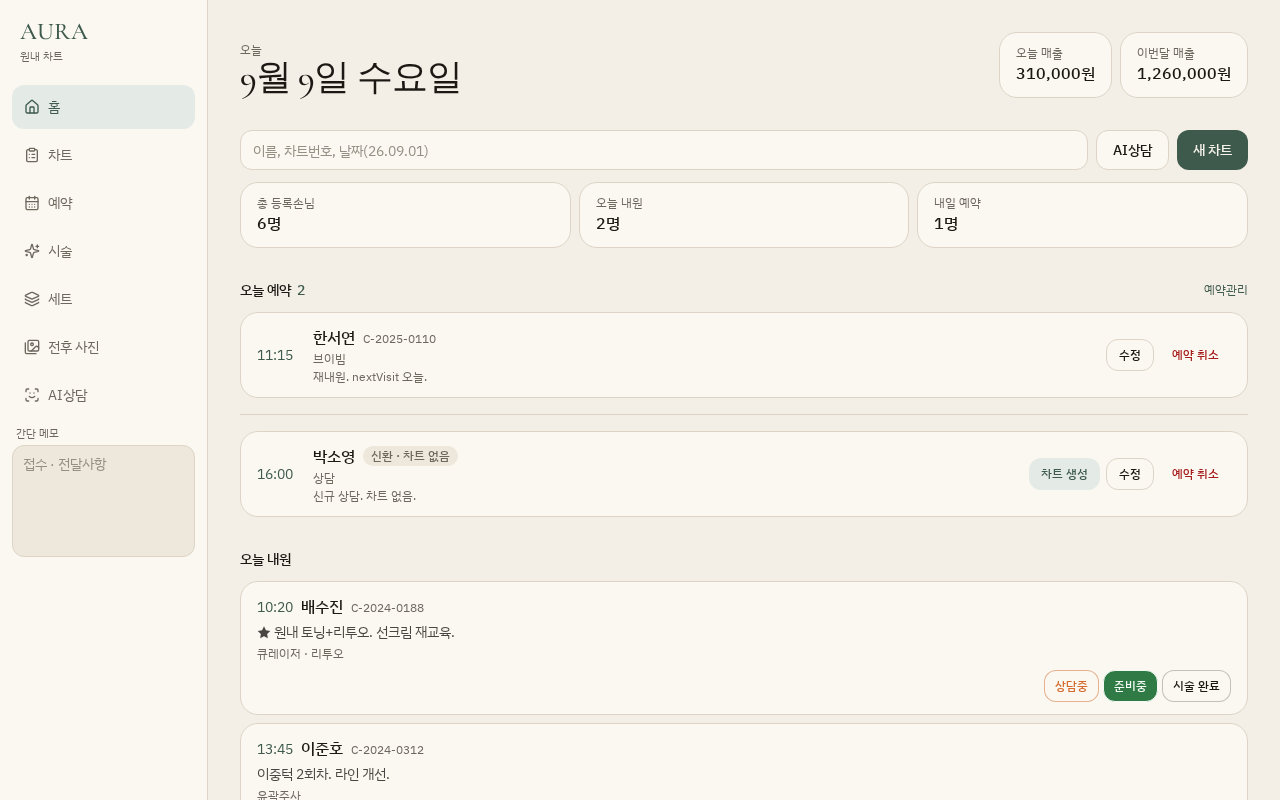
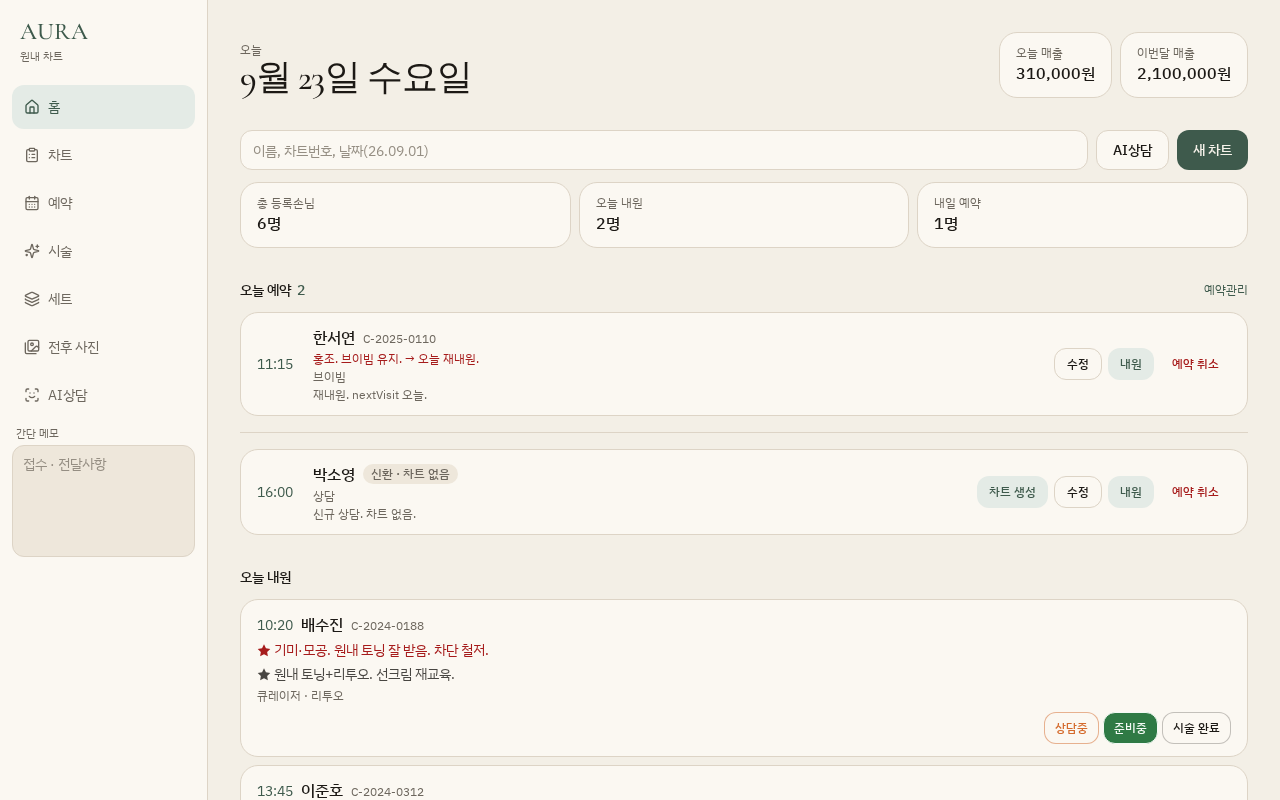
Export from Grok

diff --git a/src/components/reservation-form-dialog.tsx b/src/components/reservation-form-dialog.tsx
@@ -17,23 +17,37 @@ type Props = {
   initial?: Partial<Reservation>;
 };
 
+function reserveTime(t?: string) {
+  const snapped = snapVisitTime(t);
+  const h = Number(snapped.slice(0, 2));
+  const hour = h < 8 ? 8 : h > 20 ? 20 : h;
+  return `${String(hour).padStart(2, "0")}:${snapped.slice(3, 5)}`;
+}
+
 export function ReservationFormDialog({ open, onOpenChange, initial }: Props) {
   const patients = useClinicStore((s) => s.patients);
   const upsertReservation = useClinicStore((s) => s.upsertReservation);
   const [date, setDate] = useState(todayISO());
-  const [time, setTime] = useState(nowTime());
+  const [time, setTime] = useState(() => reserveTime(nowTime()));
   const [name, setName] = useState("");
   const [phone, setPhone] = useState("");
+  const [chartNo, setChartNo] = useState("");
+  const [gender, setGender] = useState<"F" | "M" | "">("");
   const [patientId, setPatientId] = useState<string | undefined>();
   const [treatments, setTreatments] = useState<string[]>([]);
   const [note, setNote] = useState("");
 
   useEffect(() => {
     if (!open) return;
+    const linked = initial?.patientId
+      ? useClinicStore.getState().patients.find((p) => p.id === initial.patientId)
+      : undefined;
     setDate(initial?.date ?? todayISO());
-    setTime(initial?.time ? snapVisitTime(initial.time) : nowTime());
+    setTime(reserveTime(initial?.time ?? nowTime()));
     setName(initial?.name ?? "");
-    setPhone(initial?.phone ?? "");
+    setPhone(initial?.phone ?? linked?.phone ?? "");
+    setChartNo(initial?.chartNo ?? linked?.chartNo ?? "");
+    setGender(initial?.gender ?? linked?.gender ?? "");
     setPatientId(initial?.patientId);
     setTreatments(initial?.treatments ?? []);
     setNote(initial?.note ?? "");
@@ -42,16 +56,18 @@ export function ReservationFormDialog({ open, onOpenChange, initial }: Props) {
   const matches = useMemo(() => {
     const n = name.trim().toLowerCase();
     const ph = phone.replace(/\D/g, "");
-    if (!n && ph.length < 3) return [];
+    const no = chartNo.trim().toLowerCase();
+    if (!n && ph.length < 3 && !no) return [];
     return patients
       .filter((p) => {
         if (patientId && p.id === patientId) return false;
         if (n && p.name.toLowerCase().includes(n)) return true;
         if (ph.length >= 3 && (p.phone ?? "").replace(/\D/g, "").includes(ph)) return true;
+        if (no && p.chartNo.toLowerCase().includes(no)) return true;
         return false;
       })
       .slice(0, 6);
-  }, [name, phone, patients, patientId]);
+  }, [name, phone, chartNo, patients, patientId]);
 
   const selected = patients.find((p) => p.id === patientId);
 
@@ -61,10 +77,12 @@ export function ReservationFormDialog({ open, onOpenChange, initial }: Props) {
     upsertReservation({
       id: initial?.id ?? uid("r"),
       date,
-      time,
+      time: reserveTime(time),
       name: trimmed,
       phone: phone.trim() || undefined,
       patientId,
+      chartNo: chartNo.trim() || undefined,
+      gender: gender || undefined,
       treatments: treatments.length ? treatments : undefined,
       note: note.trim(),
       cancelled: initial?.cancelled,
@@ -89,7 +107,7 @@ export function ReservationFormDialog({ open, onOpenChange, initial }: Props) {
             </div>
             <div className="grid gap-1.5">
               <Label>시간</Label>
-              <TimeSelect value={time} onChange={setTime} />
+              <TimeSelect value={time} onChange={(next) => setTime(reserveTime(next))} minHour={8} maxHour={20} />
             </div>
           </div>
           <div className="grid gap-1.5">
@@ -116,6 +134,8 @@ export function ReservationFormDialog({ open, onOpenChange, initial }: Props) {
                       onClick={() => {
                         setName(p.name);
                         setPhone(p.phone ?? phone);
+                        setChartNo(p.chartNo);
+                        setGender(p.gender ?? gender);
                         setPatientId(p.id);
                       }}
                     >
@@ -126,6 +146,40 @@ export function ReservationFormDialog({ open, onOpenChange, initial }: Props) {
                 ))}
               </ul>
             ) : null}
+          </div>
+          <div className="grid grid-cols-2 gap-3">
+            <div className="grid gap-1.5">
+              <Label>차트번호</Label>
+              <Input
+                value={chartNo}
+                onChange={(e) => {
+                  const next = e.target.value;
+                  setChartNo(next);
+                  const key = next.trim().toLowerCase();
+                  const exact = key ? patients.filter((p) => p.chartNo.trim().toLowerCase() === key) : [];
+                  if (exact.length === 1) {
+                    setName(exact[0].name);
+                    setPhone(exact[0].phone ?? phone);
+                    setGender(exact[0].gender ?? gender);
+                    setPatientId(exact[0].id);
+                  } else {
+                    setPatientId(undefined);
+                  }
+                }}
+                placeholder="직접 입력"
+              />
+            </div>
+            <div className="grid gap-1.5">
+              <Label>성별</Label>
+              <div className="flex gap-2">
+                <Button type="button" size="sm" variant={gender === "F" ? "default" : "outline"} onClick={() => setGender(gender === "F" ? "" : "F")}>
+                  여
+                </Button>
+                <Button type="button" size="sm" variant={gender === "M" ? "default" : "outline"} onClick={() => setGender(gender === "M" ? "" : "M")}>
+                  남
+                </Button>
+              </div>
+            </div>
           </div>
           <div className="grid gap-1.5">
             <Label>전화</Label>

diff --git a/src/lib/store.ts b/src/lib/store.ts
@@ -56,6 +56,7 @@ export type ClinicState = ClinicData & {
   upsertReservation: (input: ReservationInput) => Reservation;
   removeReservation: (id: string) => void;
   toggleBookingCancel: (booking: DayBooking) => void;
+  arriveBooking: (booking: DayBooking) => void;
   addConsult: (input: ConsultInput) => Consult;
   removeConsult: (id: string) => void;
   toggleHouse: (treatmentId: string) => void;
@@ -198,6 +199,8 @@ export const useClinicStore = create<ClinicState>()(
           name: input.name,
           phone: input.phone ?? existing?.phone,
           patientId: input.patientId ?? existing?.patientId,
+          chartNo: input.chartNo !== undefined ? input.chartNo.trim() || undefined : existing?.chartNo,
+          gender: input.gender !== undefined ? input.gender : existing?.gender,
           treatments: input.treatments ?? existing?.treatments,
           note: input.note !== undefined ? input.note.trim() || undefined : existing?.note,
           cancelled: input.cancelled ?? existing?.cancelled,
@@ -261,6 +264,60 @@ export const useClinicStore = create<ClinicState>()(
           source: "cancel",
         };
         set({ visits: [...get().visits, visit] });
+      },
+
+      arriveBooking: (booking) => {
+        if (booking.cancelled) return;
+        let patient = booking.patientId
+          ? get().patients.find((p) => p.id === booking.patientId)
+          : undefined;
+        if (!patient && booking.chartNo?.trim()) {
+          const key = booking.chartNo.trim();
+          patient = get().patients.find((p) => p.chartNo.trim() === key);
+        }
+        if (!patient) {
+          patient = get().upsertPatient({
+            name: booking.name,
+            phone: booking.phone,
+            chartNo: booking.chartNo ?? "",
+            gender: booking.gender,
+          });
+        } else if ((!patient.gender && booking.gender) || (!patient.chartNo.trim() && booking.chartNo)) {
+          patient = get().upsertPatient({
+            id: patient.id,
+            name: patient.name,
+            gender: patient.gender ?? booking.gender,
+            chartNo: patient.chartNo.trim() ? patient.chartNo : (booking.chartNo ?? ""),
+          });
+        }
+        const arrived = get().visits.some(
+          (v) => v.patientId === patient.id && v.date === booking.date && v.source !== "cancel",
+        );
+        if (!arrived) {
+          get().upsertVisit({
+            patientId: patient.id,
+            date: booking.date,
+            time: booking.time,
+            treatments: booking.treatments ?? [],
+            memo: booking.note && booking.note !== "다음 내원" ? booking.note : undefined,
+            status: "consult",
+          });
+        }
+        if (booking.source === "manual") {
+          get().upsertReservation({
+            id: booking.id,
+            date: booking.date,
+            time: booking.time,
+            name: patient.name,
+            phone: booking.phone ?? patient.phone,
+            patientId: patient.id,
+            chartNo: patient.chartNo || booking.chartNo,
+            gender: patient.gender ?? booking.gender,
+            treatments: booking.treatments,
+            note: booking.note,
+            cancelled: booking.cancelled,
+          });
+        }
       },
 
       addConsult: (input) => {

diff --git a/src/components/booking-row.tsx b/src/components/booking-row.tsx
@@ -1,6 +1,7 @@
 import { useState } from "react";
 import { Link } from "@tanstack/react-router";
 import { formatTime } from "@/lib/format";
+import { memoToPlain } from "@/lib/memo";
 import type { DayBooking } from "@/lib/reservations";
 import { useClinicStore } from "@/lib/store";
 import { Badge } from "@/components/ui/badge";
@@ -16,9 +17,11 @@ type Props = {
 export function BookingRow({ booking, onToggleCancel }: Props) {
   const upsertReservation = useClinicStore((s) => s.upsertReservation);
   const upsertPatient = useClinicStore((s) => s.upsertPatient);
+  const arriveBooking = useClinicStore((s) => s.arriveBooking);
   const [chartOpen, setChartOpen] = useState(false);
   const [editOpen, setEditOpen] = useState(false);
   const missingChart = !booking.patientId;
+  const chartMemo = memoToPlain(booking.chartMemo);
 
   return (
     <li className="flex flex-wrap items-center gap-2 rounded-lg border border-border bg-surface px-3 py-3 sm:px-4">
@@ -36,6 +39,7 @@ export function BookingRow({ booking, onToggleCancel }: Props) {
           {missingChart ? <Badge>신환 · 차트 없음</Badge> : null}
           {booking.cancelled ? <Badge className="bg-danger/10 text-danger">예약 취소</Badge> : null}
         </div>
+        {chartMemo ? <p className="mt-0.5 line-clamp-2 text-xs text-danger">{chartMemo}</p> : null}
         {booking.treatments?.length ? (
           <p className="mt-0.5 truncate text-xs text-muted">{booking.treatments.join(" · ")}</p>
         ) : booking.note ? (
@@ -54,6 +58,11 @@ export function BookingRow({ booking, onToggleCancel }: Props) {
         <Button size="sm" variant="outline" onClick={() => setEditOpen(true)}>
           수정
         </Button>
+        {!booking.cancelled ? (
+          <Button size="sm" variant="soft" onClick={() => arriveBooking(booking)}>
+            내원
+          </Button>
+        ) : null}
         <Button
           size="sm"
           variant="ghost"
@@ -94,6 +103,8 @@ export function BookingRow({ booking, onToggleCancel }: Props) {
           name: booking.name,
           phone: booking.phone,
           patientId: booking.patientId,
+          chartNo: booking.chartNo,
+          gender: booking.gender,
           treatments: booking.treatments,
           note: booking.source === "nextVisit" && booking.note === "다음 내원" ? "" : booking.note,
           cancelled: booking.cancelled,

diff --git a/src/routes/index.tsx b/src/routes/index.tsx
@@ -126,6 +126,7 @@ function Home() {
                   visit={v}
                   name={p?.name ?? "삭제된 차트"}
                   chartNo={p?.chartNo}
+                  chartMemo={p?.memo}
                   onOpen={() => p && navigate({ to: "/patients/$id", params: { id: p.id } })}
                   onStatus={(status) => setVisitStatus(v.id, status)}
                 />
@@ -196,17 +197,20 @@ function TodayVisitRow({
   visit,
   name,
   chartNo,
+  chartMemo,
   onOpen,
   onStatus,
 }: {
   visit: Visit;
   name: string;
   chartNo?: string;
+  chartMemo?: string;
   onOpen: () => void;
   onStatus: (status: VisitStatus) => void;
 }) {
   const status = visit.status ?? "prep";
   const memo = memoToPlain(visit.memo);
+  const chartText = memoToPlain(chartMemo);
   return (
     <li className="grid gap-2 rounded-lg border border-border bg-surface px-3 py-3 sm:px-4">
       <button type="button" className="min-w-0 text-left hover:text-sage" onClick={onOpen}>
@@ -215,6 +219,7 @@ function TodayVisitRow({
           <span className="font-medium">{name}</span>
           {chartNo ? <span className="text-xs text-muted">{chartNo}</span> : null}
         </span>
+        {chartText ? <p className="mt-1 line-clamp-2 text-sm text-danger">{chartText}</p> : null}
         {memo ? <p className="mt-1 line-clamp-2 text-sm text-ink/80">{memo}</p> : null}
         {visit.treatments.length ? (
           <p className="mt-1 truncate text-xs text-muted">{visit.treatments.join(" · ")}</p>

diff --git a/src/components/time-select.tsx b/src/components/time-select.tsx
@@ -1,18 +1,24 @@
 import { VISIT_MINUTES, snapVisitTime } from "@/lib/format";
 import { cn } from "@/lib/utils";
 
-const HOURS = Array.from({ length: 24 }, (_, i) => String(i).padStart(2, "0"));
+const ALL_HOURS = Array.from({ length: 24 }, (_, i) => String(i).padStart(2, "0"));
 
 type TimeSelectProps = {
   value?: string;
   onChange: (value: string) => void;
   className?: string;
+  minHour?: number;
+  maxHour?: number;
 };
 
-export function TimeSelect({ value, onChange, className }: TimeSelectProps) {
+export function TimeSelect({ value, onChange, className, minHour = 0, maxHour = 23 }: TimeSelectProps) {
   const snapped = snapVisitTime(value);
   const hour = snapped.slice(0, 2);
   const minute = snapped.slice(3, 5);
+  const hours = ALL_HOURS.filter((h) => {
+    const n = Number(h);
+    return n >= minHour && n <= maxHour;
+  });
 
   const selectClass =
     "h-10 rounded-md border border-border bg-surface px-2 text-sm text-ink outline-none focus-visible:ring-2 focus-visible:ring-ring/40";
@@ -25,7 +31,7 @@ export function TimeSelect({ value, onChange, className }: TimeSelectProps) {
         value={hour}
         onChange={(e) => onChange(snapVisitTime(`${e.target.value}:${minute}`))}
       >
-        {HOURS.map((h) => (
+        {hours.map((h) => (
           <option key={h} value={h}>
             {h}
           </option>

diff --git a/src/lib/reservations.ts b/src/lib/reservations.ts
@@ -9,6 +9,8 @@ export type DayBooking = {
   phone?: string;
   patientId?: string;
   chartNo?: string;
+  gender?: "F" | "M";
+  chartMemo?: string;
   treatments: string[];
   note?: string;
   source: "manual" | "nextVisit";
@@ -73,7 +75,9 @@ export function bookingsForDate(
       name: p?.name ?? r.name,
       phone: r.phone ?? p?.phone,
       patientId: r.patientId,
-      chartNo: p?.chartNo,
+      chartNo: p?.chartNo || r.chartNo,
+      gender: p?.gender ?? r.gender,
+      chartMemo: p?.memo,
       treatments: r.treatments ?? [],
       note: r.note,
       source: "manual",
@@ -102,6 +106,8 @@ export function bookingsForDate(
       phone: p.phone,
       patientId: p.id,
       chartNo: p.chartNo,
+      gender: p.gender,
+      chartMemo: p.memo,
       treatments: v.treatments,
       note: "다음 내원",
       source: "nextVisit",

diff --git a/src/lib/types.ts b/src/lib/types.ts
@@ -77,6 +77,8 @@ export type Reservation = {
   name: string;
   phone?: string;
   patientId?: string;
+  chartNo?: string;
+  gender?: "F" | "M";
   treatments?: string[];
   note?: string;
   cancelled?: boolean;
